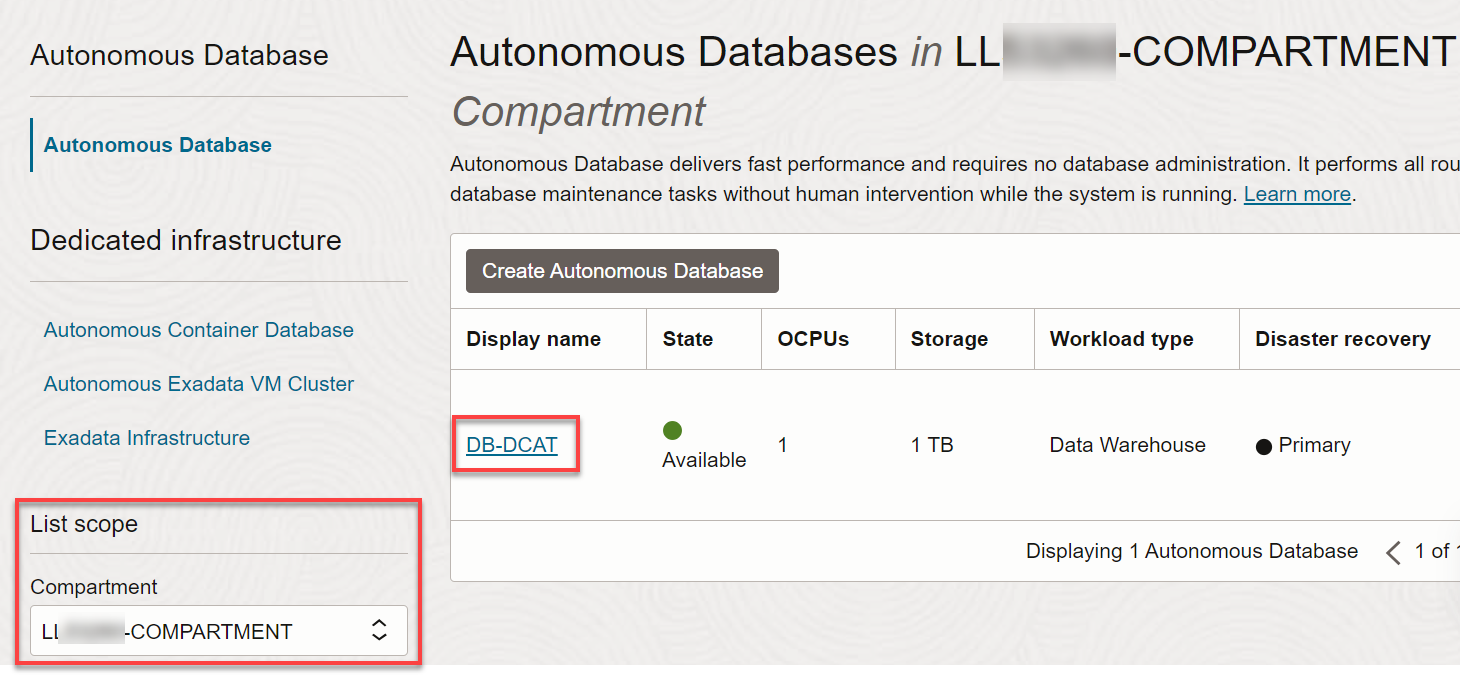
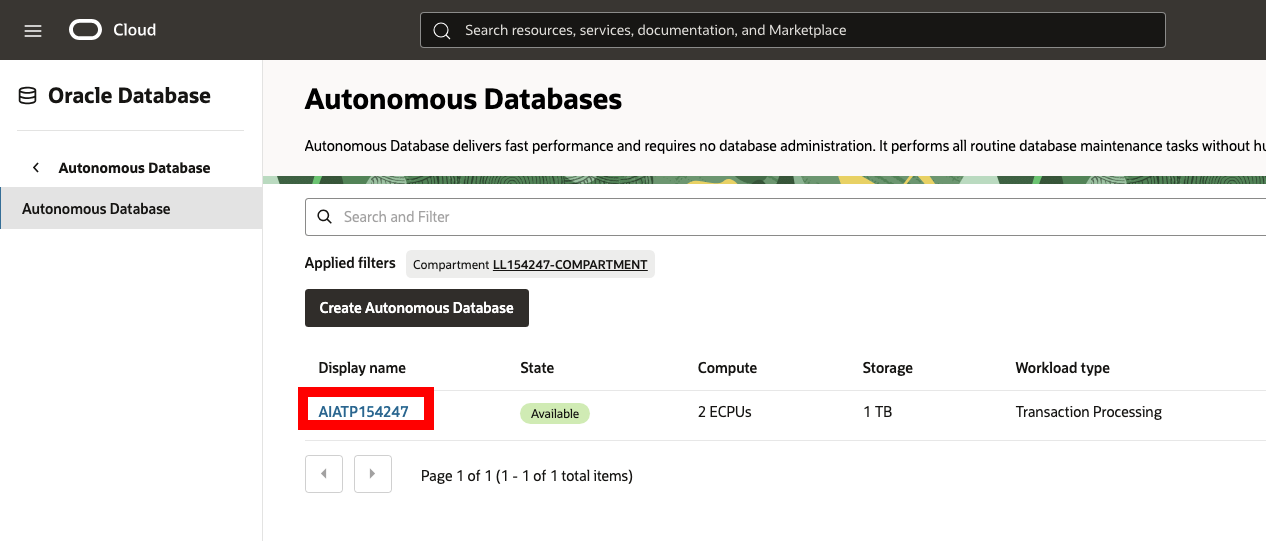
final UI updates for 11029

diff --git a/db-23ai-fundamentals/intro/green-button-setup.md b/db-23ai-fundamentals/intro/green-button-setup.md
@@ -47,26 +47,35 @@ Estimated Time: 5 minutes
 
 ## Task 2: Navigate to the Autonomous Database
 
-1. You should be already logged in to the Console using the instructions in the **Task 1** in this lab.
+1. You should be already logged in to the Console using the instructions in the **Task 1** above in this lab.
 
-2. Open the **Navigation** menu and click **Oracle Database**. Under **Oracle Database**, click **Autonomous Database**. The **Autonomous Databases** page should be displayed; however, your assigned resources for this workshop are all in your assigned LiveLabs compartment (that is displayed in the  **Reservation Information** panel) and not in the **root** tenancy. The following expected warning message is displayed.
+2. Open the **Navigation** menu (top left hand corner)and click **Oracle Database**. Under **Oracle Database**, click **Autonomous Database**. 
+
+    ![Screenshot of the Oracle Cloud Console showing the Autonomous Database section highlighted in the navigation menu. The wider environment includes the Console interface with various database options visible. The emotional tone is neutral and instructional. Visible text includes Oracle Database and Autonomous Database in the navigation menu, guiding users to locate their Autonomous Database instance.](./images/adb.png)
+
+
+3. You may see an error message if you're in the wrong compartment. Your resources are in your assigned LiveLabs compartment, not the root compartment.
 
     ![Warning that you might get if you are in the root compartment and not in your own LiveLabs assigned compartment.](./images/wrong-compartment.png " ")
 
-3. To select your assigned LiveLabs compartment, click the **Compartment** drop-down list in the **List Scope** section on the left. Enter your LiveLabs assigned compartment name in the **Compartment** text field to search for it which should look something like **LL#####-COMPARTMENT** where the **#####** is a unique five-digit number. Alternatively, you can drill-down on the **Livelabs** node and select your assigned compartment. When your assigned compartment is displayed in the list of compartments, select it. In addition, make sure that your LiveLabs assigned region from the **Run Workshop *workshop-name*** page is selected in Console's banner.
+4. Switch to your assigned compartment:
+   - in the center (see the picture below), click the **Compartment** button
+   - Search for your compartment name (looks like **LL#####-COMPARTMENT** with 5 numbers)
+   - Select your assigned compartment when it appears
+   - Verify you're in the correct region shown in your **Reservation Information**
 
-    ![The Data Catalogs page in your assigned LiveLabs compartment is displayed. The training-dcat-instance Data Catalog instance provided for you is displayed on this page.](./images/ll-select-compartment.png " ")
+    ![The Data Catalogs page in your assigned LiveLabs compartment is displayed. The training-dcat-instance Data Catalog instance provided for you is displayed on this page.](./images/compartment.png " ")
 
     >**Note:** Refer to the **Reservation Information** panel that you can access from the **Run Workshop *workshop-name*** tab for information about your assigned resources.
 
     ![The LL assigned resources are displayed in the **Reservation Information** panel.](./images/ll-resources.png " ")
 
-4. On the **Autonomous Databases** page, click your ADB instance.
+5. Now, On the **Autonomous Databases** page, click your ADB instance.
     ![On the Autonomous Databases page, the Autonomous Database that is assigned to your LiveLabs workshop reservation is displayed.](./images/ll-adb-page.png " ")
 
-5. On the **Autonomous Database details** page, click the **Database actions** drop-down list, and then click **SQL**.
+6. On the **Autonomous Database details** page, click the **Database actions** drop-down list, and then click **SQL**.
 
-    ![The Database Actions button is highlighted.](./images/sql.png " ")
+    ![The Database Actions button is highlighted.](../common-images/im1.png " ")
 
 You may now proceed to the next lab.
 
